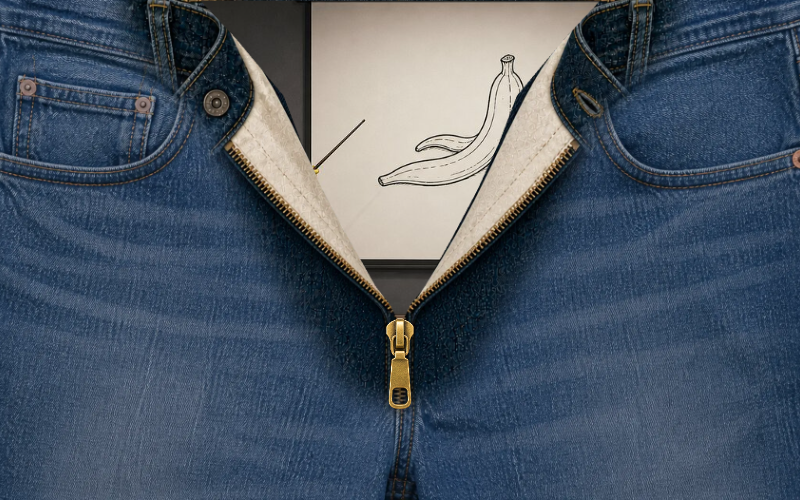
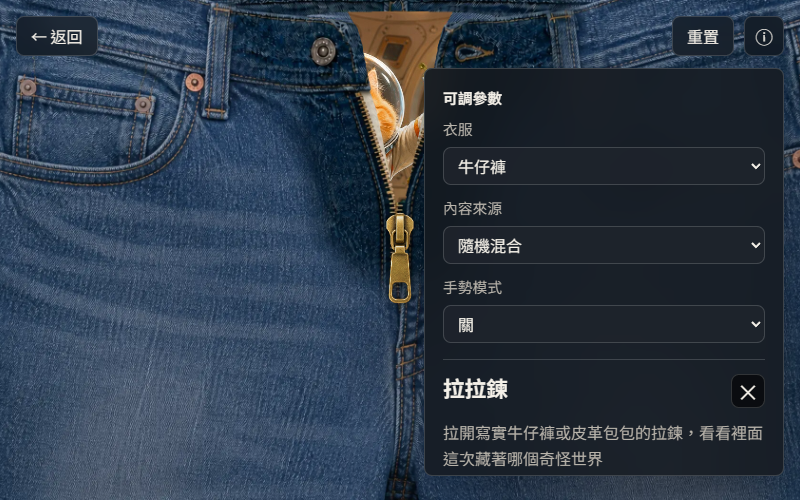
feat(zipper-pull): 包包開口加內緣暗部，補出袋口厚度感
開口邊緣由程式化遮罩合成，缺乏皮革厚度。渲染時先墊一層模糊壓暗的幀影，
正片蓋上後只在開口邊緣留下柔和陰影，內容不再像直接貼在邊緣上。

diff --git a/effects/zipper-pull/effect.js b/effects/zipper-pull/effect.js
@@ -26,7 +26,9 @@ const GARMENTS = {
     axis: "h",
     line: 577,
     apex: [200, 350, 500, 650, 800, 950, 1100, 1250],
-    contentBox: [180, 312, 1120, 530]
+    contentBox: [180, 312, 1120, 530],
+    // 開口邊緣是程式化合成的，缺乏皮革厚度；加一圈暗部補深度感（原圖像素）
+    rimShadow: 16
   }
 };
 
@@ -302,6 +304,20 @@ function drawScene() {
   const win = frames.length > 8 ? 0.8 : 0.3;
   const bw = clamp((frac - (1 - win) / 2) / win, 0, 1);
   const blend = bw * bw * (3 - 2 * bw);
+  // 開口內緣的暗部：把幀影模糊壓暗後墊一層，正片會蓋掉大部分，
+  // 只在開口邊緣留下一圈柔和陰影，做出袋口／布料的厚度感
+  const rim = layout.garment.rimShadow;
+  if (rim && state.progress > 0.02 && typeof context.filter === "string") {
+    const grow = rim * layout.scale;
+    context.save();
+    context.filter = `blur(${Math.max(4, grow * 0.9)}px) brightness(0.3)`;
+    context.drawImage(
+      frames[i],
+      layout.offsetX - grow, layout.offsetY - grow,
+      dw + grow * 2, dh + grow * 2
+    );
+    context.restore();
+  }
   if (blend > 0.001 && frames[i + 1]) {
     context.drawImage(frames[i + 1], layout.offsetX, layout.offsetY, dw, dh);
     context.globalAlpha = 1 - blend;
